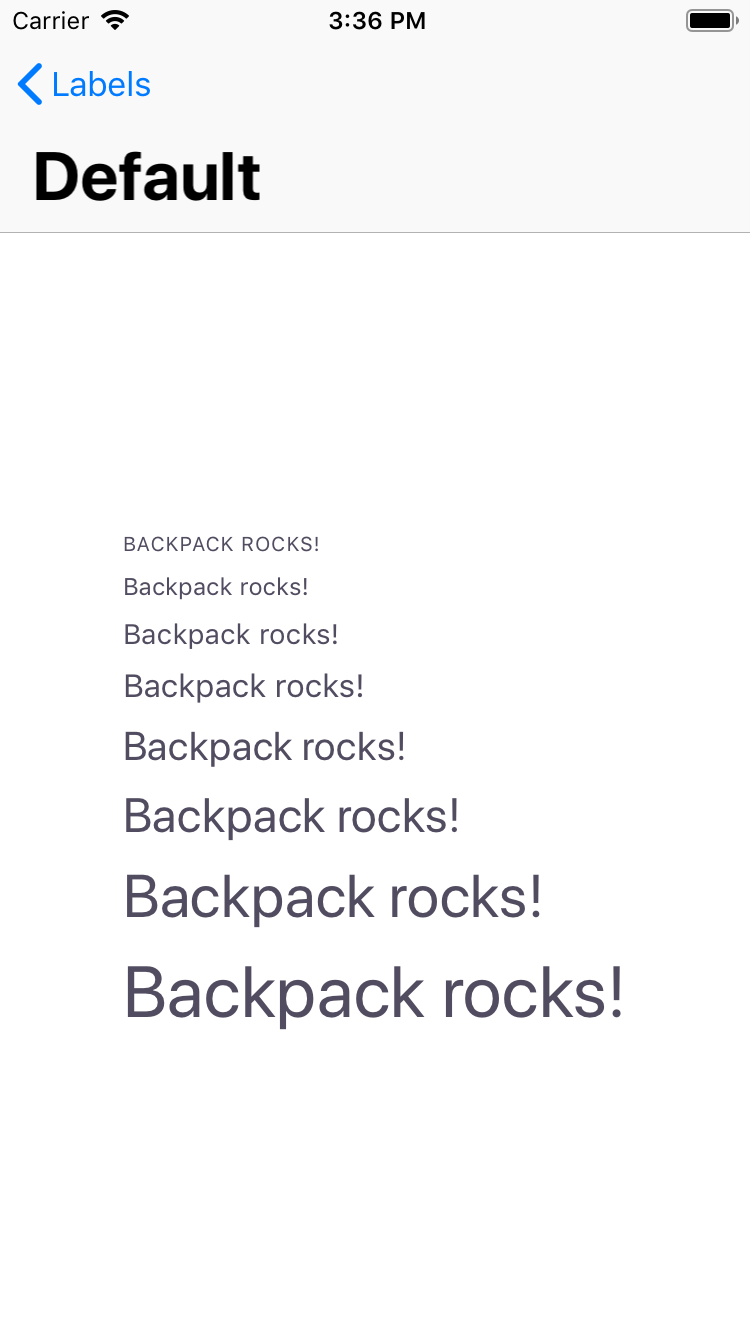
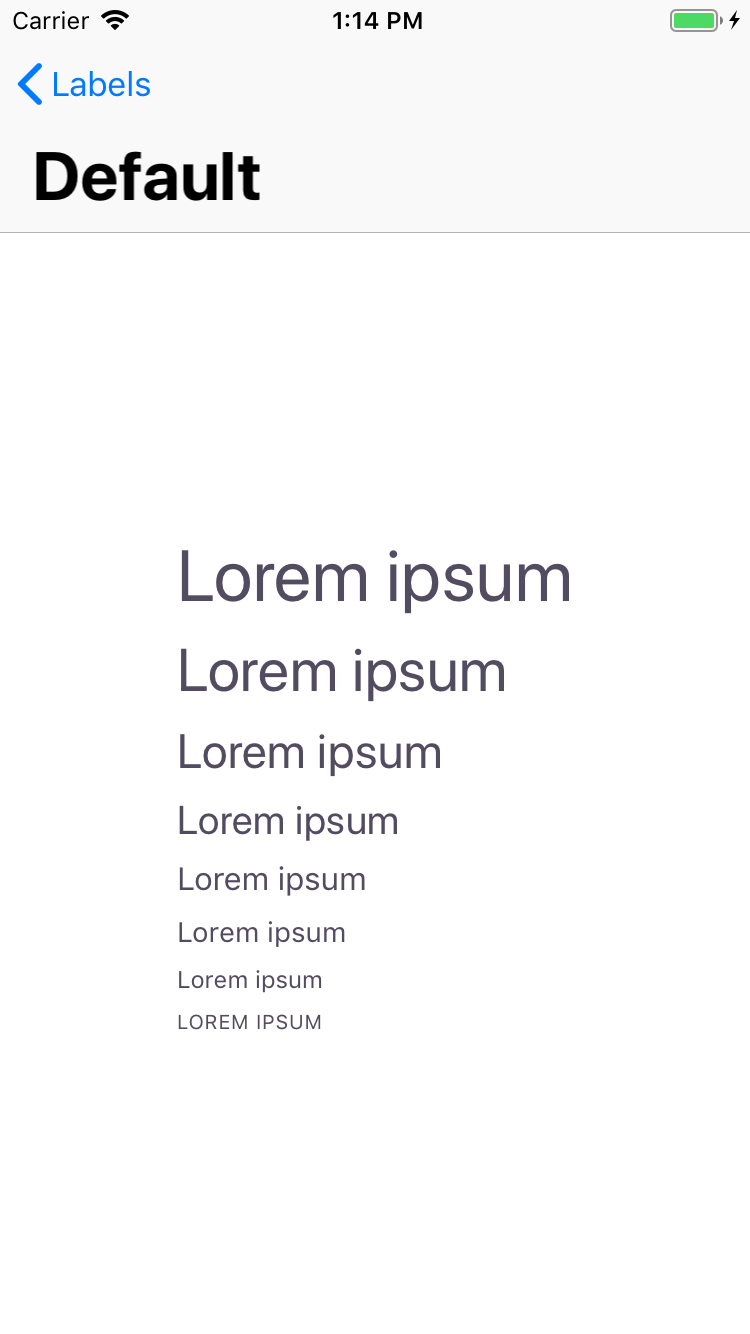
[BPK-2183] Align Text examples between platforms

diff --git a/Example/Backpack/View Controllers/LabelsViewController.swift b/Example/Backpack/View Controllers/LabelsViewController.swift
@@ -30,13 +30,30 @@ class LabelsViewController: UIViewController {
     var type: LabelsDisplayType = .normal
 
     static let normalStyles: [BPKFontStyle] = [
-        .textCaps, .textXs, .textSm, .textBase, .textLg, .textXl, .textXxl, .textXxxl
+        .textXxxl,
+        .textXxl,
+        .textXl,
+        .textLg,
+        .textBase,
+        .textSm,
+        .textXs,
+        .textCaps
     ]
     static let emphasizedStyles: [BPKFontStyle] = [
-        .textCapsEmphasized, .textXsEmphasized, .textSmEmphasized, .textBaseEmphasized,
-        .textLgEmphasized, .textXlEmphasized, .textXxlEmphasized, .textXxxlEmphasized
+        .textXxxlEmphasized,
+        .textXxlEmphasized,
+        .textXlEmphasized,
+        .textLgEmphasized,
+        .textBaseEmphasized,
+        .textSmEmphasized,
+        .textXsEmphasized,
+        .textCapsEmphasized
     ]
-    static let heavyStyles: [BPKFontStyle] = [.textXlHeavy, .textXxlHeavy, .textXxxlHeavy]
+    static let heavyStyles: [BPKFontStyle] = [
+        .textXxxlHeavy,
+        .textXxlHeavy,
+        .textXlHeavy
+        ]
 
     override func viewDidLoad() {
         super.viewDidLoad()
@@ -62,9 +79,9 @@ class LabelsViewController: UIViewController {
             label.fontStyle = style
 
             if style != .textCaps && style != .textCapsEmphasized {
-                label.text = "Backpack rocks!"
+                label.text = "Lorem ipsum"
             } else {
-                label.text = "BACKPACK ROCKS!"
+                label.text = "LOREM IPSUM"
             }
         }
     }

diff --git a/Example/Backpack/View Controllers/LabelsPerformanceViewController.swift b/Example/Backpack/View Controllers/LabelsPerformanceViewController.swift
@@ -49,7 +49,7 @@ class LabelsPerformanceViewController: UIViewController {
             let fontStyle = emphasized ? style.1 : style.0
 
             let label = Backpack.Label(fontStyle: fontStyle)
-            label.text = "Backpack"
+            label.text = "Lorem ipsum"
             horizontalStackView.addArrangedSubview(label)
         }
 
